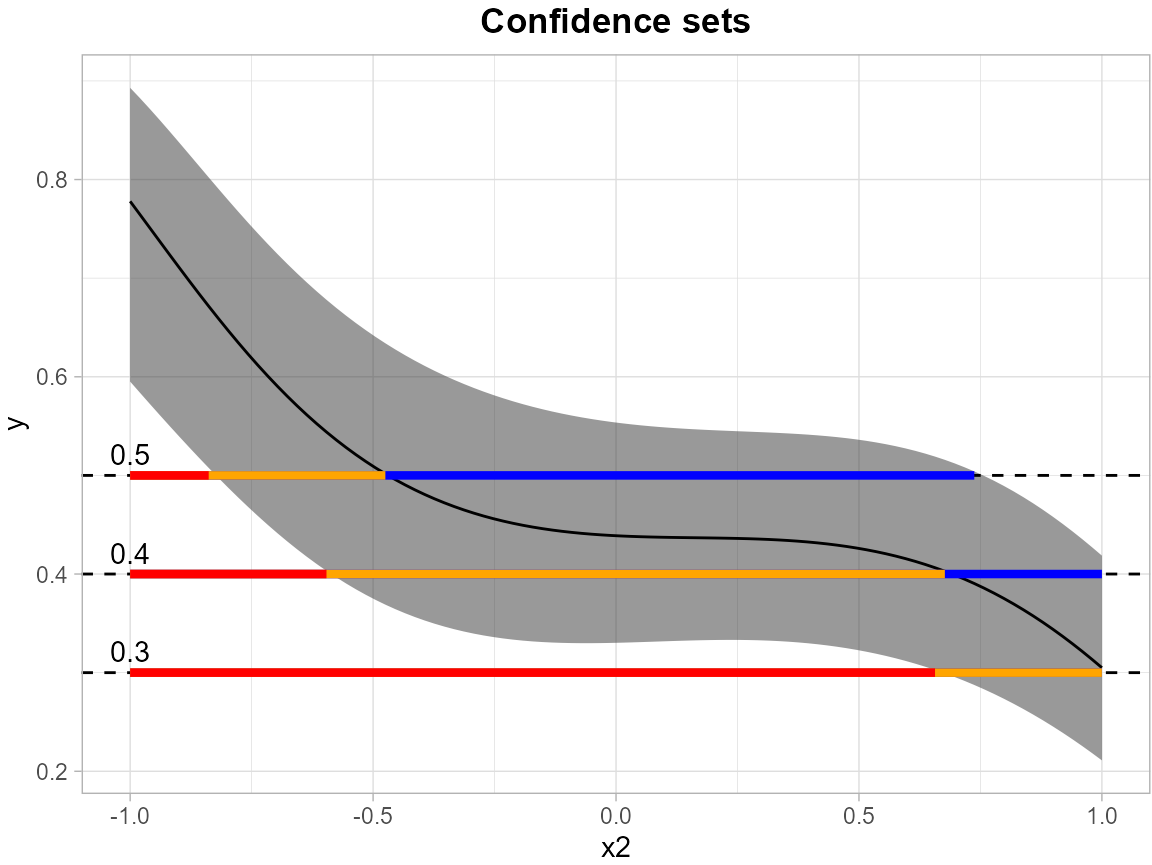
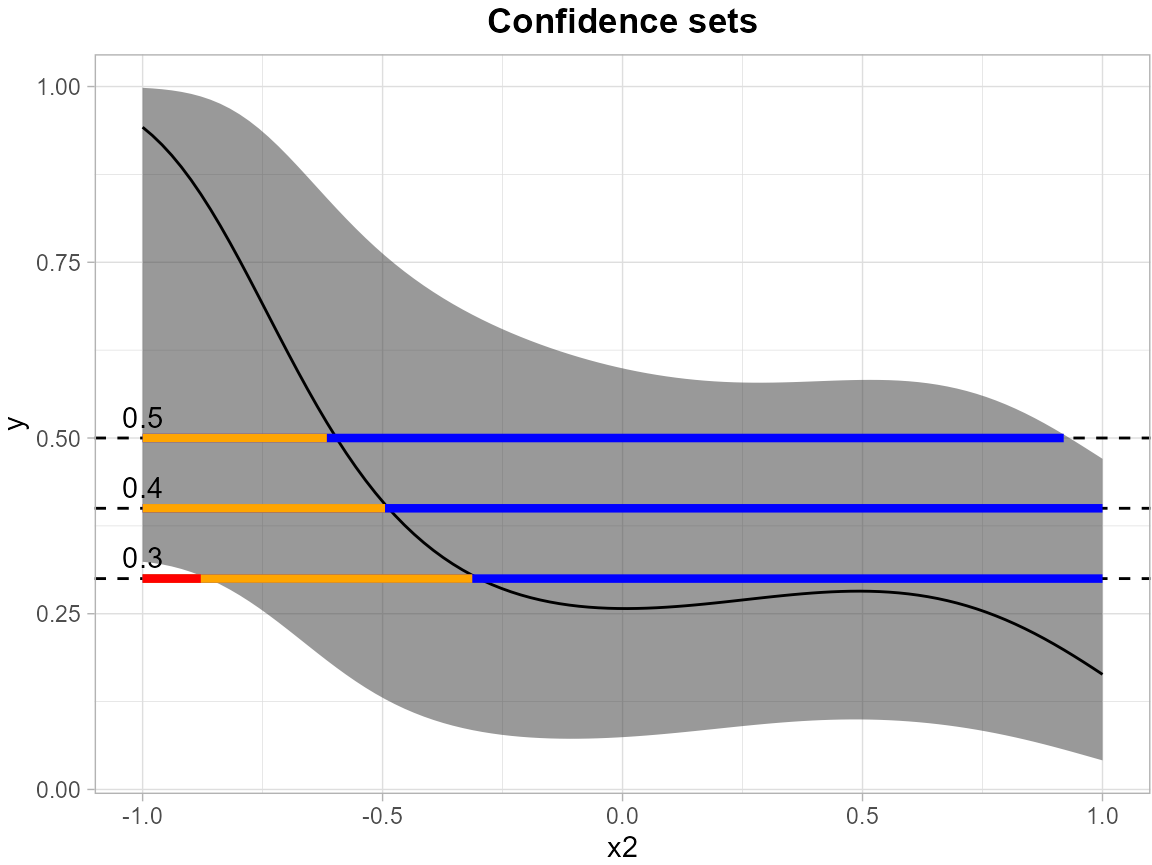
Correct mistakes in simulating logistic regression data

diff --git a/docs/articles/Linear_Model_Example.html b/docs/articles/Linear_Model_Example.html
@@ -62,7 +62,7 @@
       <h1>Linear_Model_Example</h1>
                         <h4 data-toc-skip class="author">Angela Yu</h4>
             
-            <h4 data-toc-skip class="date">2025-09-07</h4>
+            <h4 data-toc-skip class="date">2025-09-13</h4>
       
       <small class="dont-index">Source: <a href="https://github.com/AngelaYuStat/SCoRES/blob/HEAD/vignettes/Linear_Model_Example.Rmd" class="external-link"><code>vignettes/Linear_Model_Example.Rmd</code></a></small>
       <div class="d-none name"><code>Linear_Model_Example.Rmd</code></div>
@@ -156,9 +156,9 @@ establishing the SCB stays the same.</p>
 <code class="sourceCode R"><span><span class="co"># generate simulated data</span></span>
 <span><span class="va">x1</span> <span class="op">&lt;-</span> <span class="fu"><a href="https://rdrr.io/r/stats/Normal.html" class="external-link">rnorm</a></span><span class="op">(</span><span class="fl">100</span><span class="op">)</span></span>
 <span><span class="va">x2</span> <span class="op">&lt;-</span> <span class="fu"><a href="https://rdrr.io/r/stats/Normal.html" class="external-link">rnorm</a></span><span class="op">(</span><span class="fl">100</span><span class="op">)</span></span>
-<span><span class="va">epsilon</span> <span class="op">&lt;-</span> <span class="fu"><a href="https://rdrr.io/r/stats/Normal.html" class="external-link">rnorm</a></span><span class="op">(</span><span class="fl">100</span>,<span class="fl">0</span>,<span class="fu"><a href="https://rdrr.io/r/base/MathFun.html" class="external-link">sqrt</a></span><span class="op">(</span><span class="fl">2</span><span class="op">)</span><span class="op">)</span></span>
-<span><span class="va">y</span> <span class="op">&lt;-</span> <span class="op">-</span><span class="fl">1</span> <span class="op">+</span> <span class="va">x1</span> <span class="op">+</span> <span class="fl">0.5</span> <span class="op">*</span> <span class="va">x1</span><span class="op">^</span><span class="fl">2</span> <span class="op">-</span> <span class="fl">1.1</span> <span class="op">*</span> <span class="va">x1</span><span class="op">^</span><span class="fl">3</span> <span class="op">-</span> <span class="fl">0.5</span> <span class="op">*</span> <span class="va">x2</span> <span class="op">+</span> <span class="fl">0.8</span> <span class="op">*</span> <span class="va">x2</span><span class="op">^</span><span class="fl">2</span> <span class="op">-</span> <span class="fl">1.1</span> <span class="op">*</span> <span class="va">x2</span><span class="op">^</span><span class="fl">3</span> <span class="op">+</span> <span class="va">epsilon</span></span>
-<span><span class="va">y</span> <span class="op">&lt;-</span> <span class="fu"><a href="../reference/expit.html">expit</a></span><span class="op">(</span><span class="va">y</span><span class="op">)</span></span>
+<span><span class="va">mu</span> <span class="op">&lt;-</span> <span class="op">-</span><span class="fl">1</span> <span class="op">+</span> <span class="va">x1</span> <span class="op">+</span> <span class="fl">0.5</span> <span class="op">*</span> <span class="va">x1</span><span class="op">^</span><span class="fl">2</span> <span class="op">-</span> <span class="fl">1.1</span> <span class="op">*</span> <span class="va">x1</span><span class="op">^</span><span class="fl">3</span> <span class="op">-</span> <span class="fl">0.5</span> <span class="op">*</span> <span class="va">x2</span> <span class="op">+</span> <span class="fl">0.8</span> <span class="op">*</span> <span class="va">x2</span><span class="op">^</span><span class="fl">2</span> <span class="op">-</span> <span class="fl">1.1</span> <span class="op">*</span> <span class="va">x2</span><span class="op">^</span><span class="fl">3</span></span>
+<span><span class="va">p</span> <span class="op">&lt;-</span> <span class="fu"><a href="../reference/expit.html">expit</a></span><span class="op">(</span><span class="va">mu</span><span class="op">)</span></span>
+<span><span class="va">y</span> <span class="op">&lt;-</span> <span class="fu"><a href="https://rdrr.io/r/stats/Binomial.html" class="external-link">rbinom</a></span><span class="op">(</span><span class="fl">100</span>, size <span class="op">=</span> <span class="fl">1</span>, prob <span class="op">=</span> <span class="va">p</span><span class="op">)</span></span>
 <span><span class="va">df</span> <span class="op">&lt;-</span> <span class="fu"><a href="https://rdrr.io/r/base/data.frame.html" class="external-link">data.frame</a></span><span class="op">(</span>x1 <span class="op">=</span> <span class="va">x1</span>, x2 <span class="op">=</span> <span class="va">x2</span>, y <span class="op">=</span> <span class="va">y</span><span class="op">)</span></span>
 <span><span class="va">grid</span> <span class="op">&lt;-</span> <span class="fu"><a href="https://rdrr.io/r/base/data.frame.html" class="external-link">data.frame</a></span><span class="op">(</span>x1 <span class="op">=</span> <span class="fu"><a href="https://rdrr.io/r/base/seq.html" class="external-link">seq</a></span><span class="op">(</span><span class="op">-</span><span class="fl">1</span>, <span class="fl">1</span>, length.out <span class="op">=</span> <span class="fl">100</span><span class="op">)</span>, x2 <span class="op">=</span> <span class="fu"><a href="https://rdrr.io/r/base/seq.html" class="external-link">seq</a></span><span class="op">(</span><span class="op">-</span><span class="fl">1</span>, <span class="fl">1</span>, length.out <span class="op">=</span> <span class="fl">100</span><span class="op">)</span><span class="op">)</span></span>
 <span><span class="co"># fit the logistic regression model and obtain the SCB for y</span></span>
@@ -271,8 +271,8 @@ for model:
 <span><span class="fu"><a href="../reference/SCB_regression_outcome.html">SCB_regression_outcome</a></span><span class="op">(</span>df_fit <span class="op">=</span> <span class="va">df</span>, model <span class="op">=</span> <span class="va">model</span>,</span>
 <span>                       grid_df <span class="op">=</span> <span class="va">grid</span>, n_boot <span class="op">=</span> <span class="fl">50</span>, alpha <span class="op">=</span> <span class="fl">0.1</span>,</span>
 <span>                       fitted <span class="op">=</span> <span class="cn">FALSE</span>, w <span class="op">=</span> <span class="va">w</span><span class="op">)</span></span>
-<span><span class="co">#&gt;           scb_low      Mean   scb_up</span></span>
-<span><span class="co">#&gt; scb_low -1.139088 0.4610077 2.061104</span></span></code></pre></div>
+<span><span class="co">#&gt;            scb_low      Mean   scb_up</span></span>
+<span><span class="co">#&gt; scb_low -0.5933254 0.7019345 1.997194</span></span></code></pre></div>
 <p>In the following example, we load <code>ipad</code> dataset, and
 establishes simultaneous confidence bands for all the coefficients and
 the intercept in the model fitted.</p>
